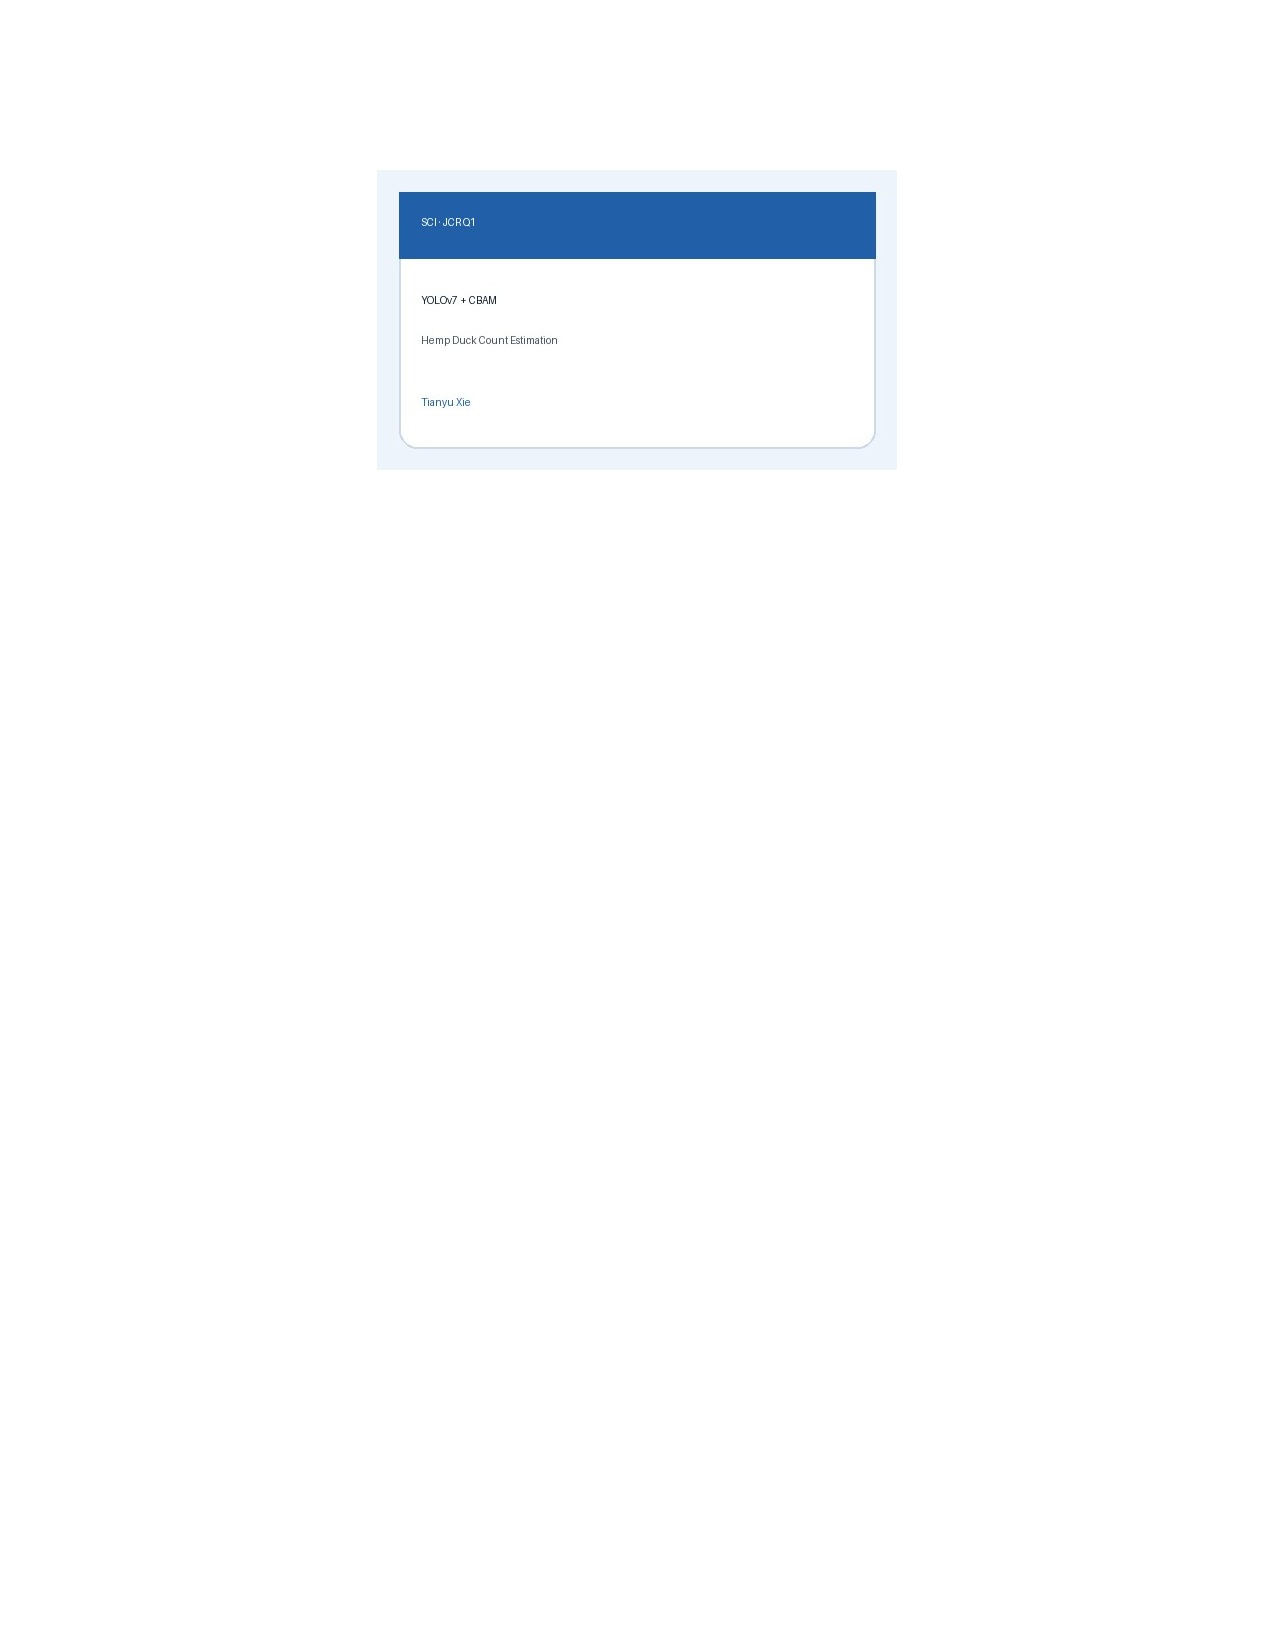
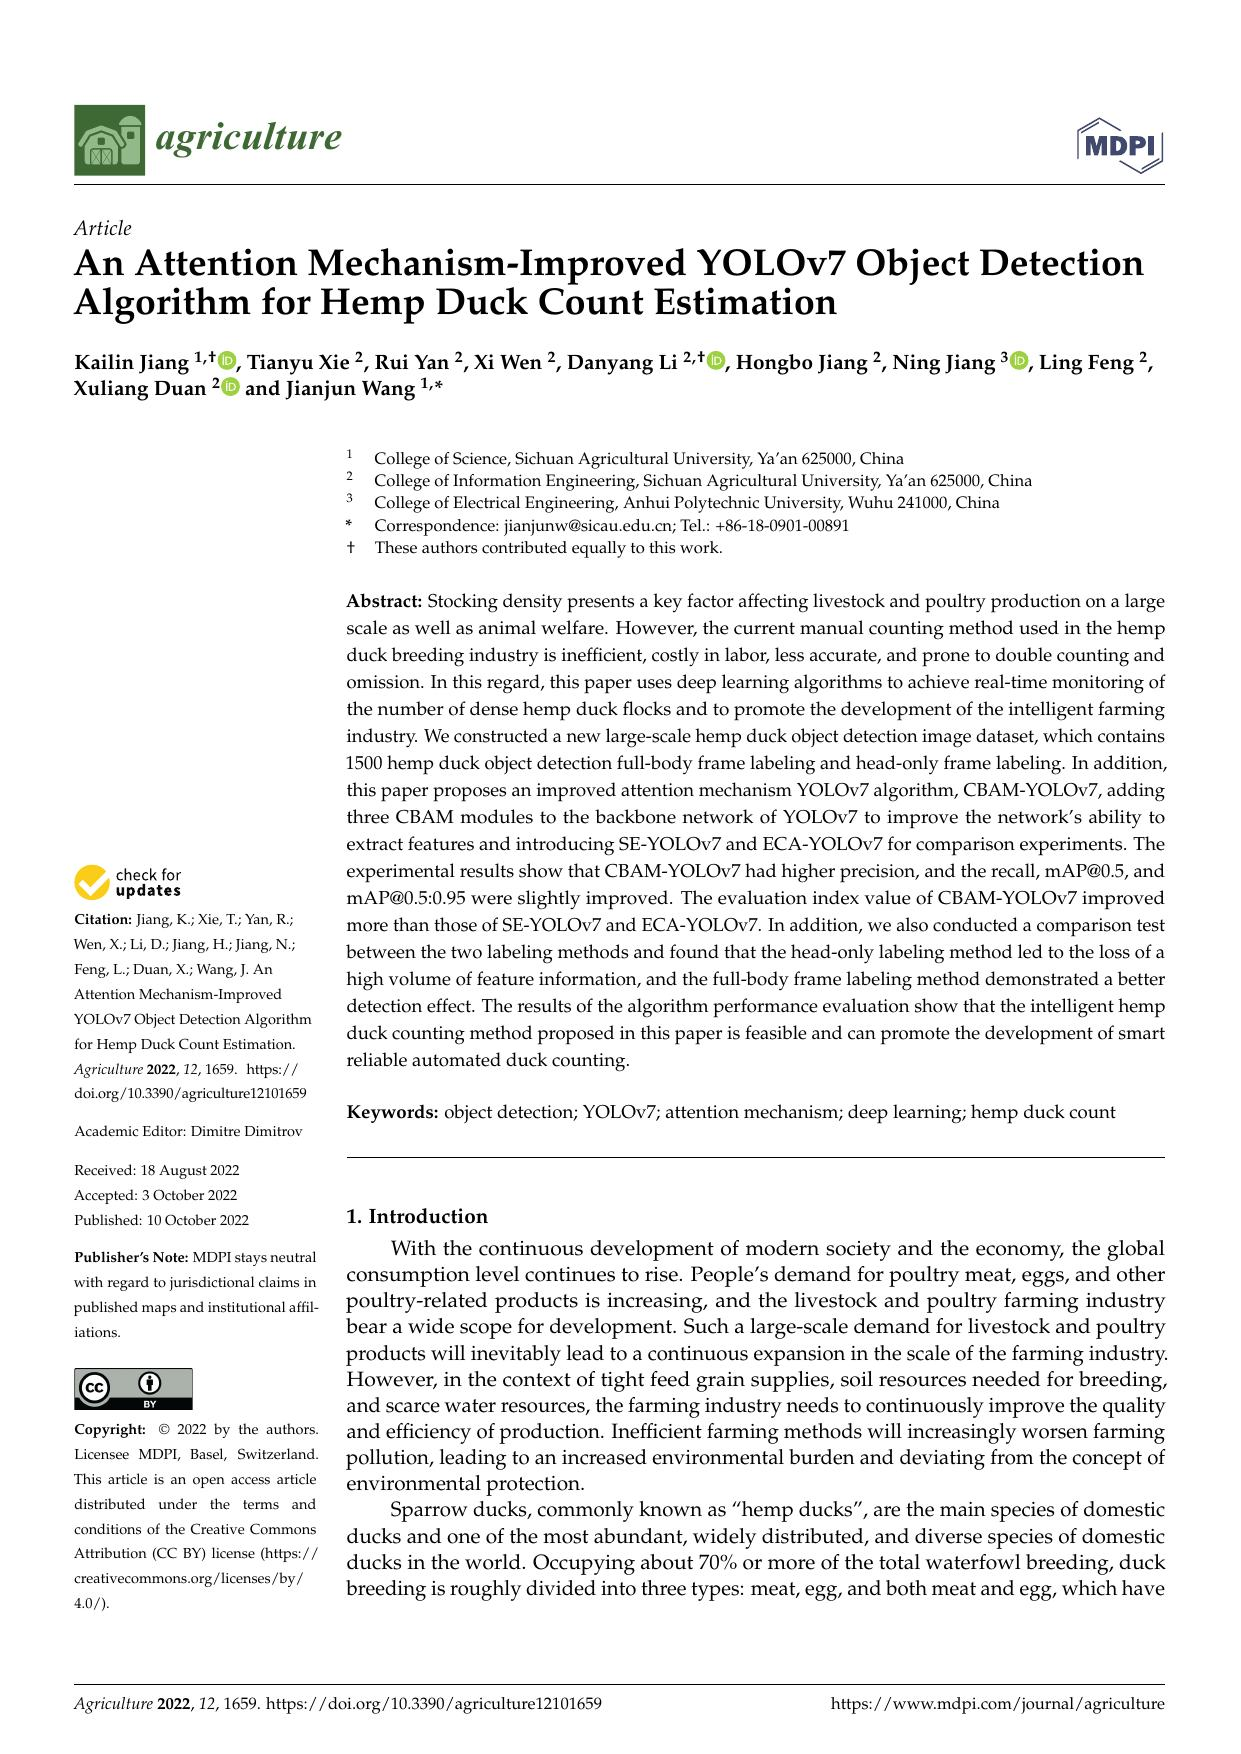
Use verified publication first-page previews

diff --git a/publications/index.html b/publications/index.html
@@ -184,7 +184,7 @@
         </article>
 
         <article class="paper paper-with-thumb" data-paper-filters="earlier-work">
-          <a class="paper-thumb" href="/images/papers/default-paper.jpg" data-lightbox data-caption="Realtime fish detection and segmentation · paper preview"><img loading="lazy" decoding="async" src="/images/papers/default-paper.jpg" alt="Realtime fish detection and segmentation paper preview"></a>
+          <a class="paper-thumb" href="/images/papers/fish-yolov5.jpg" data-lightbox data-caption="Realtime fish detection and segmentation · first page"><img loading="lazy" decoding="async" src="/images/papers/fish-yolov5.jpg" alt="Realtime fish detection and segmentation paper first page"></a>
           <div class="paper-symbol"><svg class="ui-icon" aria-hidden="true"><use href="/images/icons.svg#paper"></use></svg></div>
           <div>
             <div class="paper-status"><span class="venue gray">PeerJ CS 2023</span><span class="role-badge">Co-author</span></div>
